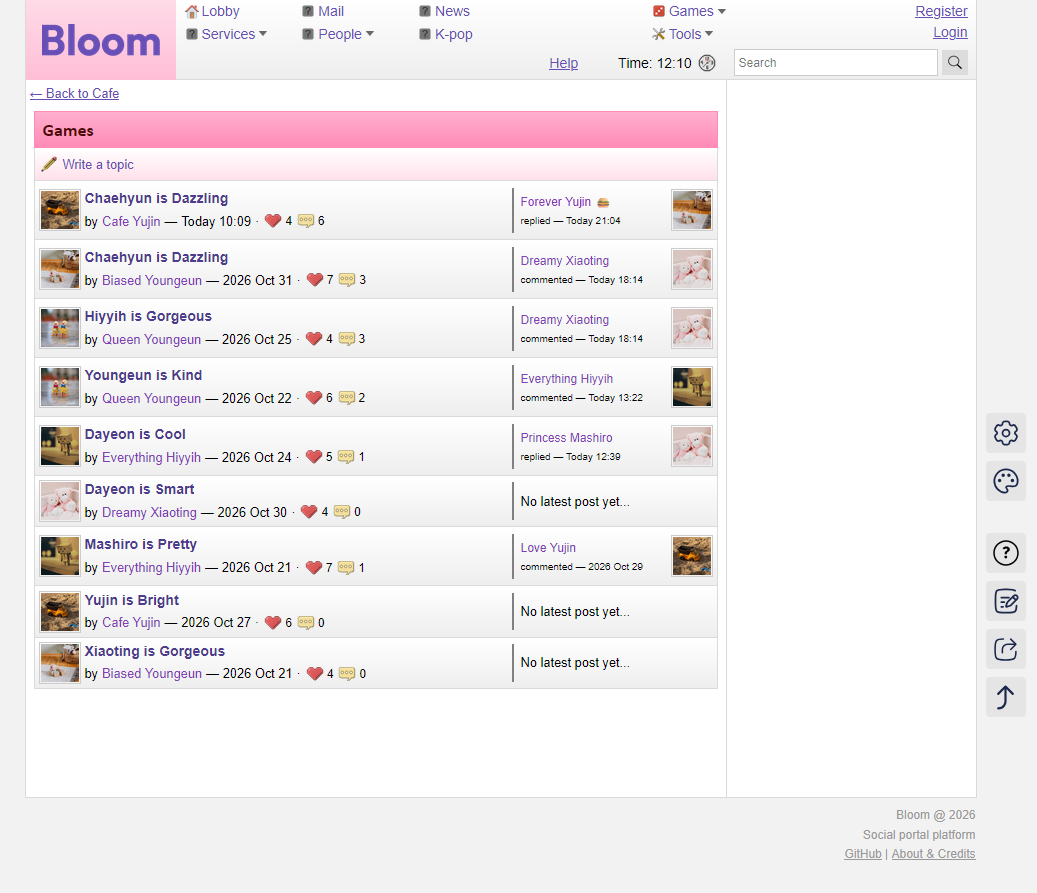
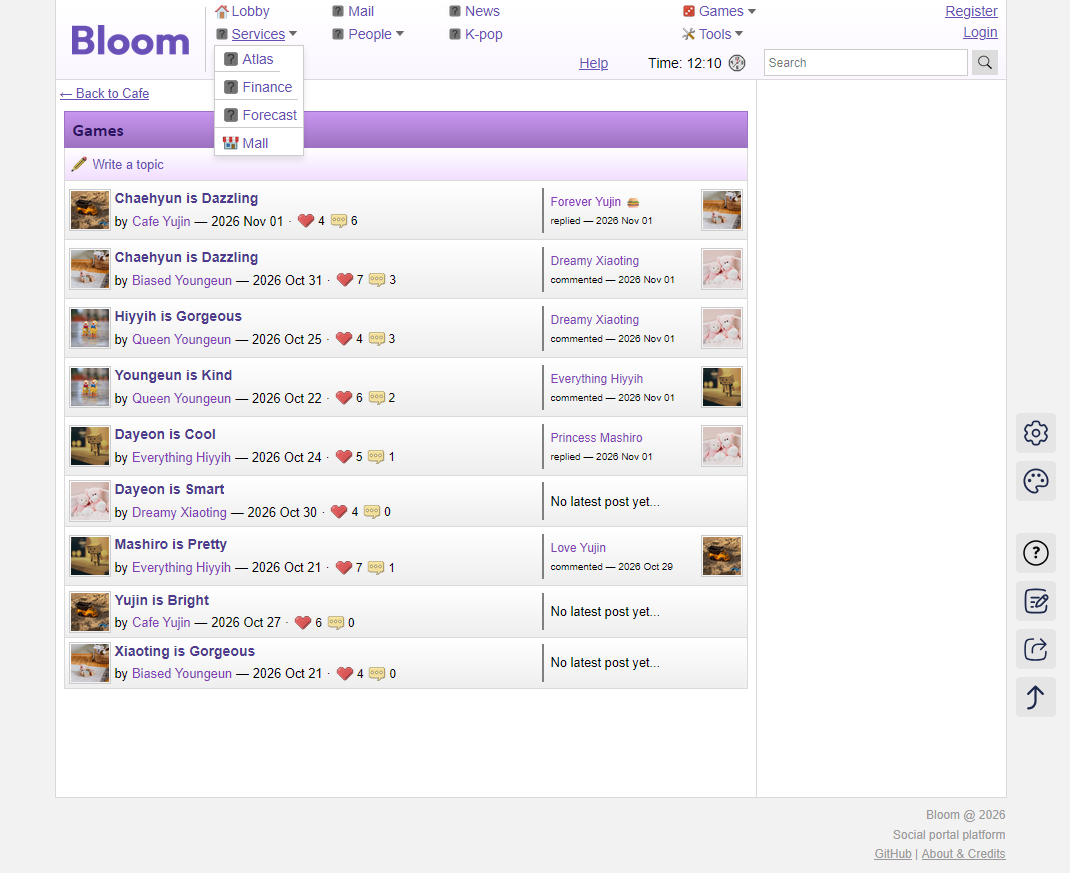
Update color scheme to lavender/violet

diff --git a/assets/site/base.css b/assets/site/base.css
@@ -16,12 +16,13 @@
   --purple-600: #71339b;
   --purple-700: #602c83;
   --violet-500: #674fb5;
-  --violet-550: rgb(78, 59, 141);
+  --violet-550: #4e3b8d;
   --border-color: #dadada;
   --site-bg-color: #f2f2f2;
   --content-bg-color: #ffffff;
-  --primary-gradient-start: #ffafcf;
-  --primary-gradient-end: #ff8bb6;
+  --toolbar-gradient-end: #fbf6ff;
+  --primary-gradient-start: #c897f0;
+  --primary-gradient-end: #9e72c2;
   --primary-gradient: linear-gradient(
     to bottom,
     var(--primary-gradient-start),
@@ -40,7 +41,7 @@
 
   /* Text colors */
   --footer-text-color: #999;
-  --primary-foreground: #520707;
+  --primary-foreground: #2b1163;
 
   /* Other */
   --topbar-zindex: 1;
@@ -73,7 +74,6 @@ body {
   align-items: center;
   justify-content: center;
   padding: 16px;
-  background: linear-gradient(to bottom, #ffdbe8, #ffbed6);
 }
 
 .core {

diff --git a/assets/templates/fragments/topbar.html b/assets/templates/fragments/topbar.html
@@ -9,8 +9,15 @@
       display: flex;
       border-bottom: 1px solid var(--border-color);
       z-index: var(--topbar-zindex);
-      background: var(--white-to-gray-gradient);
+      background: linear-gradient(to bottom, #ffffff, var(--toolbar-gradient-end));
       font-size: 14px;
+    }
+
+    .topbar-divider {
+      background-color: #ccc;
+      width: 1px;
+      height: 65px;
+      align-self: center;
     }
 
     .topbar-grid {
@@ -157,6 +164,7 @@
 <body>
   <header class="topbar" th:fragment="topbar (account)">
     <div th:replace="~{fragments/logo :: logo}"></div>
+    <div class="topbar-divider"></div>
     <div class="topbar-grid">
       <div class="topbar-up">
         <nav class="links">

diff --git a/assets/templates/cafe/topiclist.html b/assets/templates/cafe/topiclist.html
@@ -46,7 +46,7 @@
       align-items: center;
       padding: 4px;
       padding-left: 2px;
-      background: linear-gradient(to bottom, white, #ffe0eb);
+      background: linear-gradient(to bottom, white, #f2deff);
       border-left: 1px solid var(--border-color);
       border-right: 1px solid var(--border-color);
       border-bottom: 1px solid var(--border-color);
